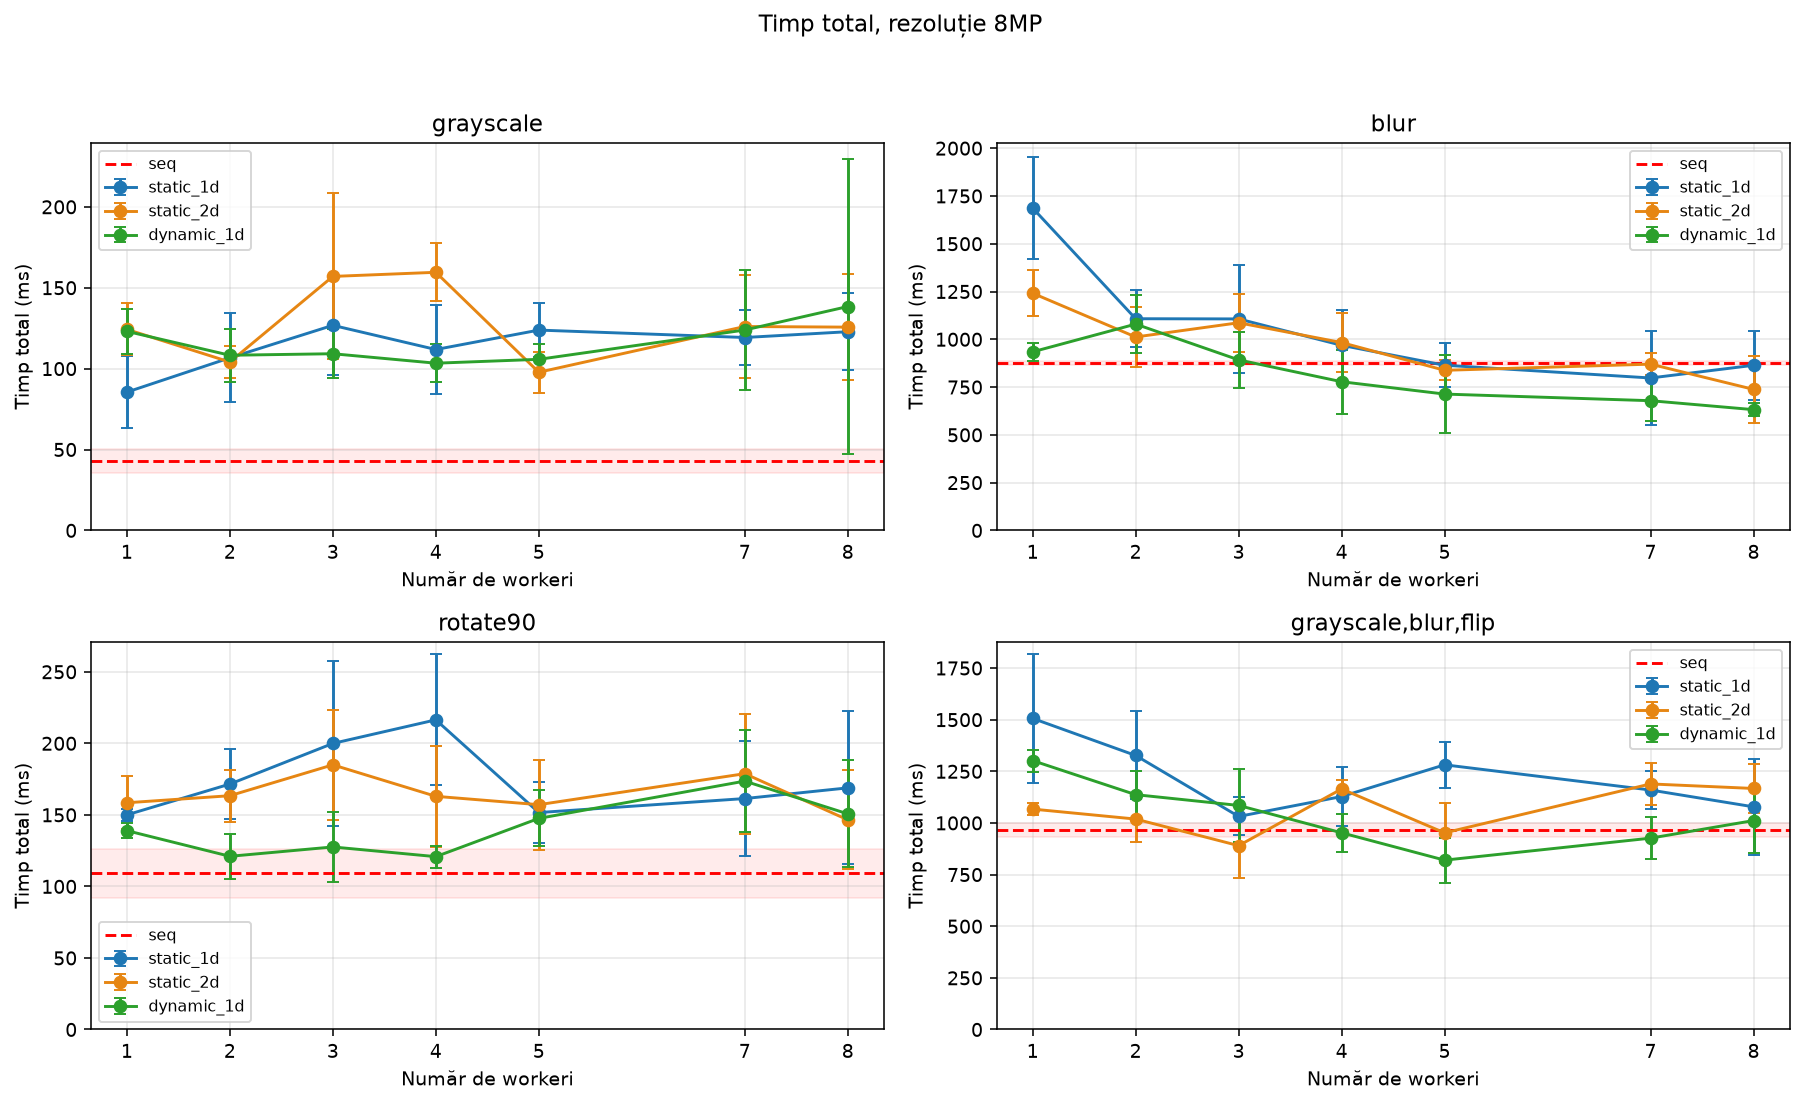
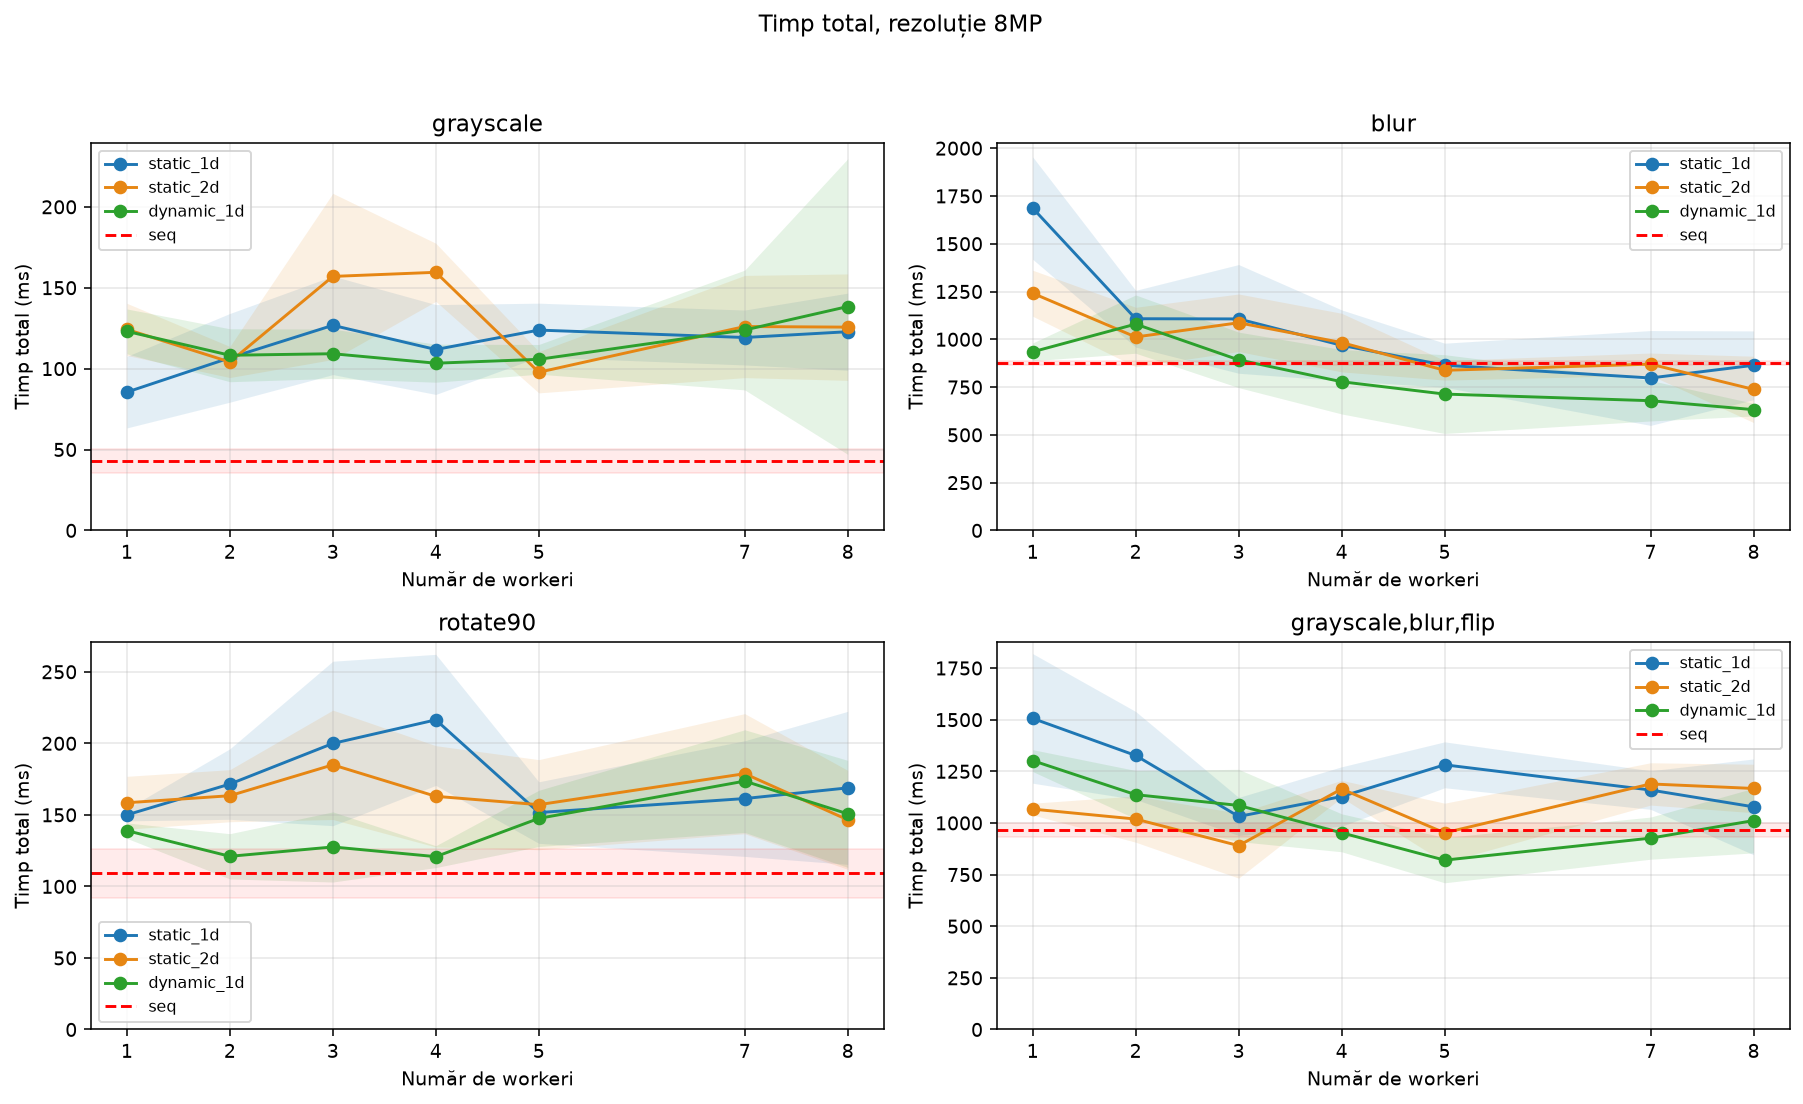
Show timing variation with translucent bands

diff --git a/HW1/benchmark.py b/HW1/benchmark.py
@@ -334,7 +334,7 @@ def generate_detailed_report(results, max_res_label, mid_np, hosts, sample_outpu
         "# Studiul experimental al prelucrării paralele de imagini în MPI",
         "## Metodologie",
         f"Mediu: `{hosts or 'local'}`. Fiecare configurație rulează de {REPETITIONS} ori. "
-        "Graficele timpului arată media și abaterea standard între rulări. "
+        "Liniile din graficele timpului arată media, iar benzile semitransparente arată media ± abaterea standard între rulări. "
         "Speedup-ul folosește raportul mediilor `T_seq / T_par`, iar eficiența "
         "este `speedup / număr_workeri`. Coordonatorul nu procesează pixeli în modurile paralele. "
         "Aceste valori descriu rularea curentă și pot varia cu încărcarea sistemului.",
@@ -379,8 +379,11 @@ def generate_detailed_report(results, max_res_label, mid_np, hosts, sample_outpu
                 multiplier = 1000 if metric == "avg_total_s" else 100 if metric == "efficiency" else 1
                 y = [r[metric] * multiplier for r in curve]
                 if metric == "avg_total_s":
-                    ax.errorbar(x, y, yerr=[r["std_total_s"] * 1000 for r in curve],
-                                marker="o", capsize=3, label=mode, color=colors[mode])
+                    deviation = np.array([r["std_total_s"] * 1000 for r in curve])
+                    ax.plot(x, y, marker="o", label=mode, color=colors[mode])
+                    ax.fill_between(x, np.maximum(0, np.array(y) - deviation),
+                                    np.array(y) + deviation, color=colors[mode], alpha=0.12,
+                                    linewidth=0)
                 else:
                     ax.plot(x, y, marker="o", label=mode, color=colors[mode])
             if metric == "avg_total_s":
@@ -419,9 +422,13 @@ def generate_detailed_report(results, max_res_label, mid_np, hosts, sample_outpu
         for mode in ["seq"] + MODES:
             curve = sorted([r for r in results if r["op"] == op and r["mode"] == mode
                             and (mode == "seq" or r["np"] == mid_np)], key=lambda r: r["megapixels"])
-            ax.errorbar([r["megapixels"] for r in curve], [r["avg_total_s"] * 1000 for r in curve],
-                        yerr=[r["std_total_s"] * 1000 for r in curve], marker="o", capsize=3,
-                        label=mode, color=colors.get(mode, "red"))
+            x = [r["megapixels"] for r in curve]
+            y = np.array([r["avg_total_s"] * 1000 for r in curve])
+            deviation = np.array([r["std_total_s"] * 1000 for r in curve])
+            color = colors.get(mode, "red")
+            ax.plot(x, y, marker="o", label=mode, color=color)
+            ax.fill_between(x, np.maximum(0, y - deviation), y + deviation,
+                            color=color, alpha=0.12, linewidth=0)
             if mode != "seq":
                 wins = [r for r in curve if r["speedup"] > 1]
                 finding = (f"primul câștig la `{wins[0]['res_label']}`, {wins[0]['speedup']:.2f}×"

diff --git a/HW1/experimental_study.md b/HW1/experimental_study.md
@@ -2,7 +2,7 @@
 
 ## Metodologie
 
-Mediu: `local`. Fiecare configurație rulează de 5 ori. Graficele timpului arată media și abaterea standard între rulări. Speedup-ul folosește raportul mediilor `T_seq / T_par`, iar eficiența este `speedup / număr_workeri`. Coordonatorul nu procesează pixeli în modurile paralele. Aceste valori descriu rularea curentă și pot varia cu încărcarea sistemului.
+Mediu: `local`. Fiecare configurație rulează de 5 ori. Liniile din graficele timpului arată media, iar benzile semitransparente arată media ± abaterea standard între rulări. Speedup-ul folosește raportul mediilor `T_seq / T_par`, iar eficiența este `speedup / număr_workeri`. Coordonatorul nu procesează pixeli în modurile paralele. Aceste valori descriu rularea curentă și pot varia cu încărcarea sistemului.
 
 Toate cele patru operații folosesc aceleași configurații. Pe imaginea `8MP` testăm cele trei strategii cu `np` în [2, 3, 4, 5, 6, 8, 9]. Pentru variația rezoluției fixăm `np=5` și folosim imaginile `small`: 256×256, `1.5MP`: 1600×900, `4MP`: 2400×1600, `8MP`: 3840×2160. Configurațiile comune celor două experimente sunt măsurate o singură dată.
 
